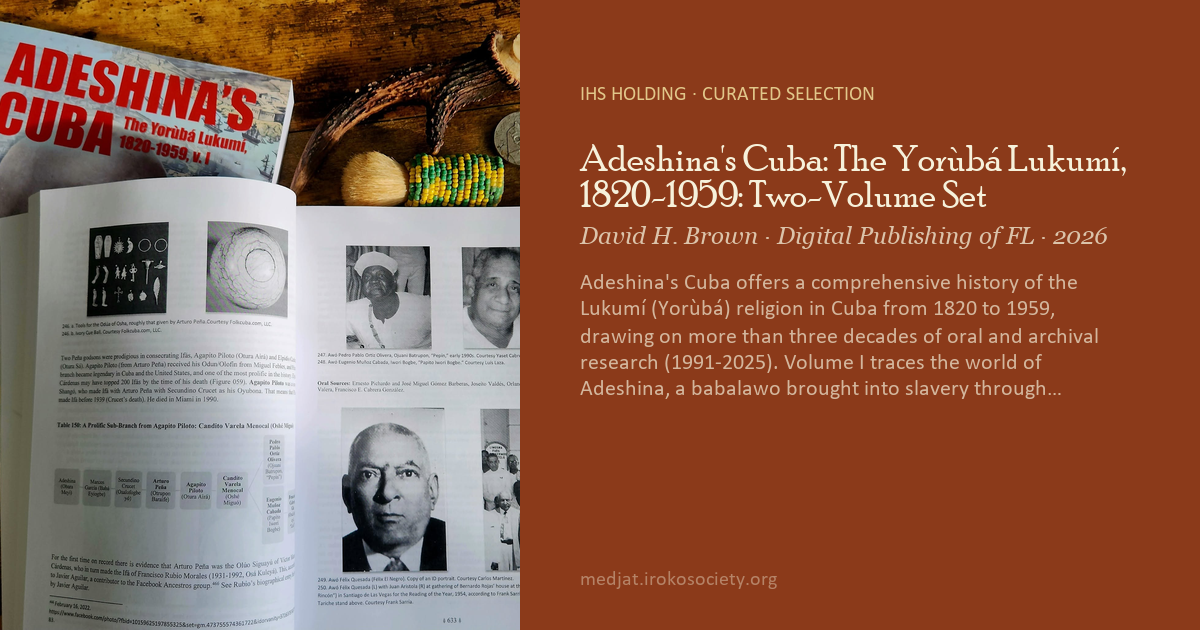
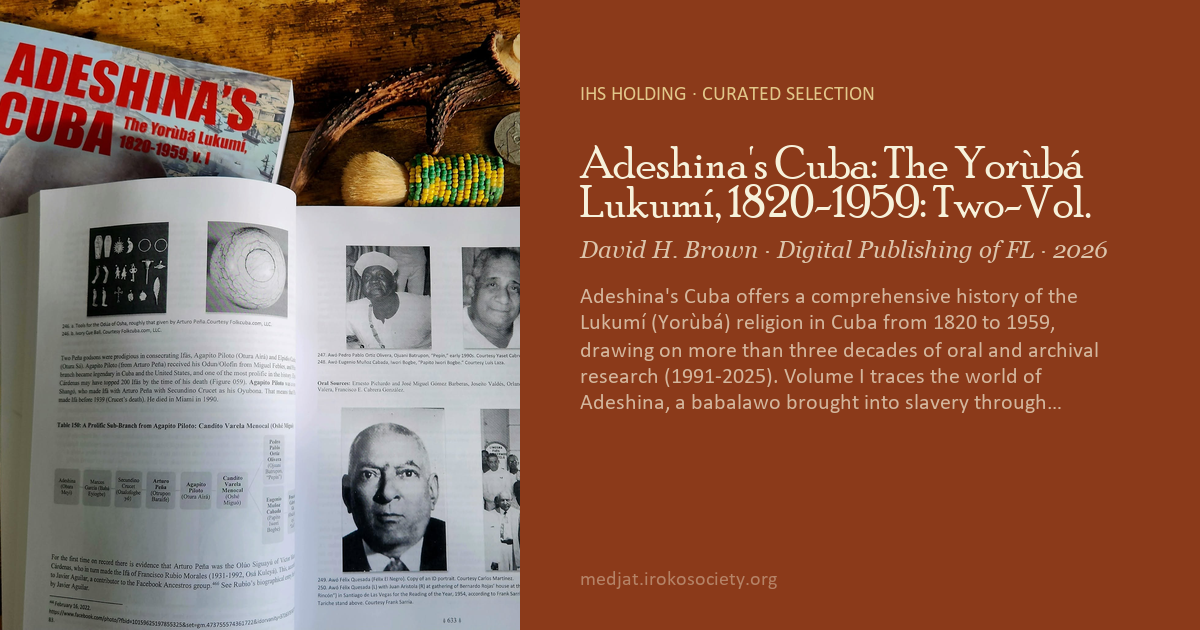
FW update

Changed region(s): [[0.4625, 0.2111, 0.9558, 0.6635]]

diff --git a/library/featured/work.html b/library/featured/work.html
@@ -3,11 +3,11 @@
 <head>
   <meta charset="UTF-8">
   <meta name="viewport" content="width=device-width, initial-scale=1.0">
-  <title>Featured Work from the Library: Adeshina&#x27;s Cuba: The Yorùbá Lukumí, 1820-1959: Two-Volume Set · Medjat Library</title>
+  <title>Featured Work from the Library: Adeshina&#x27;s Cuba: The Yorùbá Lukumí, 1820-1959: Two-Vol. · Medjat Library</title>
   <meta name="description" content="Adeshina&#x27;s Cuba offers a comprehensive history of the Lukumí (Yorùbá) religion in Cuba from 1820 to 1959, drawing on more than three decades of oral and archival research (1991-2025). Volume I traces the world of Adeshina, a babalawo broug…">
   <meta property="og:type" content="article">
   <meta property="og:site_name" content="Per Medjat · Iroko Historical Society">
-  <meta property="og:title" content="Featured Work from the Library: Adeshina&#x27;s Cuba: The Yorùbá Lukumí, 1820-1959: Two-Volume Set">
+  <meta property="og:title" content="Featured Work from the Library: Adeshina&#x27;s Cuba: The Yorùbá Lukumí, 1820-1959: Two-Vol.">
   <meta property="og:description" content="Adeshina&#x27;s Cuba offers a comprehensive history of the Lukumí (Yorùbá) religion in Cuba from 1820 to 1959, drawing on more than three decades of oral and archival research (1991-2025). Volume I traces the world of Adeshina, a babalawo broug…">
   <meta property="og:url" content="https://medjat.irokosociety.org/library/featured/work.html">
   <meta property="og:image" content="https://medjat.irokosociety.org/library/assets/featured/7HTNR8JQ-og.png">
@@ -15,15 +15,15 @@
   <meta property="og:image:width" content="1200">
   <meta property="og:image:height" content="630">
   <meta property="og:image:type" content="image/png">
-  <meta property="og:image:alt" content="Featured work: Adeshina&#x27;s Cuba: The Yorùbá Lukumí, 1820-1959: Two-Volume Set — Per Medjat · Iroko Historical Society">
+  <meta property="og:image:alt" content="Featured work: Adeshina&#x27;s Cuba: The Yorùbá Lukumí, 1820-1959: Two-Vol. — Per Medjat · Iroko Historical Society">
   <meta name="twitter:card" content="summary_large_image">
-  <meta name="twitter:title" content="Featured Work from the Library: Adeshina&#x27;s Cuba: The Yorùbá Lukumí, 1820-1959: Two-Volume Set">
+  <meta name="twitter:title" content="Featured Work from the Library: Adeshina&#x27;s Cuba: The Yorùbá Lukumí, 1820-1959: Two-Vol.">
   <meta name="twitter:description" content="Adeshina&#x27;s Cuba offers a comprehensive history of the Lukumí (Yorùbá) religion in Cuba from 1820 to 1959, drawing on more than three decades of oral and archival research (1991-2025). Volume I traces the world of Adeshina, a babalawo broug…">
   <meta name="twitter:image" content="https://medjat.irokosociety.org/library/assets/featured/7HTNR8JQ-og.png">
-  <meta name="twitter:image:alt" content="Featured work: Adeshina&#x27;s Cuba: The Yorùbá Lukumí, 1820-1959: Two-Volume Set — Per Medjat · Iroko Historical Society">
+  <meta name="twitter:image:alt" content="Featured work: Adeshina&#x27;s Cuba: The Yorùbá Lukumí, 1820-1959: Two-Vol. — Per Medjat · Iroko Historical Society">
   <link rel="canonical" href="https://medjat.irokosociety.org/library/featured/work.html">
   <link rel="stylesheet" href="https://ontology.irokosociety.org/assets/iroko-style.css">
-  <script type="application/ld+json">{"@context": "https://schema.org", "@type": "Book", "name": "Adeshina's Cuba: The Yorùbá Lukumí, 1820-1959: Two-Volume Set", "description": "Adeshina's Cuba offers a comprehensive history of the Lukumí (Yorùbá) religion in Cuba from 1820 to 1959, drawing on more than three decades of oral and archival research (1991-2025). Volume I traces the world of Adeshina, a babalawo broug…", "image": "https://medjat.irokosociety.org/library/assets/featured/7HTNR8JQ.jpg", "url": "https://medjat.irokosociety.org/library/featured/work.html", "isbn": "978-1-962929-59-2", "author": "David H. Brown · Digital Publishing of FL · 2026", "isPartOf": "Medjat Library", "identifier": "7HTNR8JQ"}</script>
+  <script type="application/ld+json">{"@context": "https://schema.org", "@type": "Book", "name": "Adeshina's Cuba: The Yorùbá Lukumí, 1820-1959: Two-Vol.", "description": "Adeshina's Cuba offers a comprehensive history of the Lukumí (Yorùbá) religion in Cuba from 1820 to 1959, drawing on more than three decades of oral and archival research (1991-2025). Volume I traces the world of Adeshina, a babalawo broug…", "image": "https://medjat.irokosociety.org/library/assets/featured/7HTNR8JQ.jpg", "url": "https://medjat.irokosociety.org/library/featured/work.html", "isbn": "978-1-962929-59-2", "author": "David H. Brown · Digital Publishing of FL · 2026", "isPartOf": "Medjat Library", "identifier": "7HTNR8JQ"}</script>
   <script async src="https://www.googletagmanager.com/gtag/js?id=G-S7WFXNP22P"></script>
   <script>
     window.dataLayer = window.dataLayer || [];
@@ -33,7 +33,7 @@
     gtag('event', 'featured_work_share_page_view', {
       event_category: 'Featured Work',
       item_id: '7HTNR8JQ',
-      item_name: 'Adeshina&#x27;s Cuba: The Yorùbá Lukumí, 1820-1959: Two-Volume Set',
+      item_name: 'Adeshina&#x27;s Cuba: The Yorùbá Lukumí, 1820-1959: Two-Vol.',
       link_url: 'https://medjat.irokosociety.org/library/featured/work.html'
     });
   </script>
@@ -72,10 +72,10 @@
       <p class="share-sub">A curated selection from the Iroko Historical Society’s cataloged holdings.</p>
     </header>
     <article class="work">
-      <div class="cover"><img src="https://medjat.irokosociety.org/library/assets/featured/7HTNR8JQ.jpg" alt="Image" onerror="this.style.display='none';this.nextElementSibling.style.display='flex';"><div class="placeholder" style="display:none">Adeshina&#x27;s Cuba: The Yorùbá Lukumí, 1820-1959: Two-Volume Set</div></div>
+      <div class="cover"><img src="https://medjat.irokosociety.org/library/assets/featured/7HTNR8JQ.jpg" alt="Image" onerror="this.style.display='none';this.nextElementSibling.style.display='flex';"><div class="placeholder" style="display:none">Adeshina&#x27;s Cuba: The Yorùbá Lukumí, 1820-1959: Two-Vol.</div></div>
       <div>
         <span class="label">IHS Holding · Curated Selection</span>
-        <h2>Adeshina&#x27;s Cuba: The Yorùbá Lukumí, 1820-1959: Two-Volume Set</h2>
+        <h2>Adeshina&#x27;s Cuba: The Yorùbá Lukumí, 1820-1959: Two-Vol.</h2>
         <p class="author">David H. Brown · Digital Publishing of FL · 2026</p>
         <p class="description">Adeshina&#x27;s Cuba offers a comprehensive history of the Lukumí (Yorùbá) religion in Cuba from 1820 to 1959, drawing on more than three decades of oral and archival research (1991-2025). Volume I traces the world of Adeshina, a babalawo brought into slavery through Matanzas in the late 1820s, and reconstructs his alliances and accomplishments across Regla, Havana, and Matanzas through hundreds of ritual and family genealogies of Babalawos and Olorishas. Volume II extends this record into more than 250 biographical essays on Ifá and Osha priests and priestesses, organized lineage by lineage from Havana and Matanzas to Palmira and Santiago de Cuba. Together the two volumes document the founding and growth of the Lukumí religion under conditions of slavery, colonial rule, and later Communist suppression, and have been received by reviewers as a major contribution to Afro-Cuban and African Diaspora studies.</p>
         <p class="meta">Book · 978-1-962929-59-2</p>
